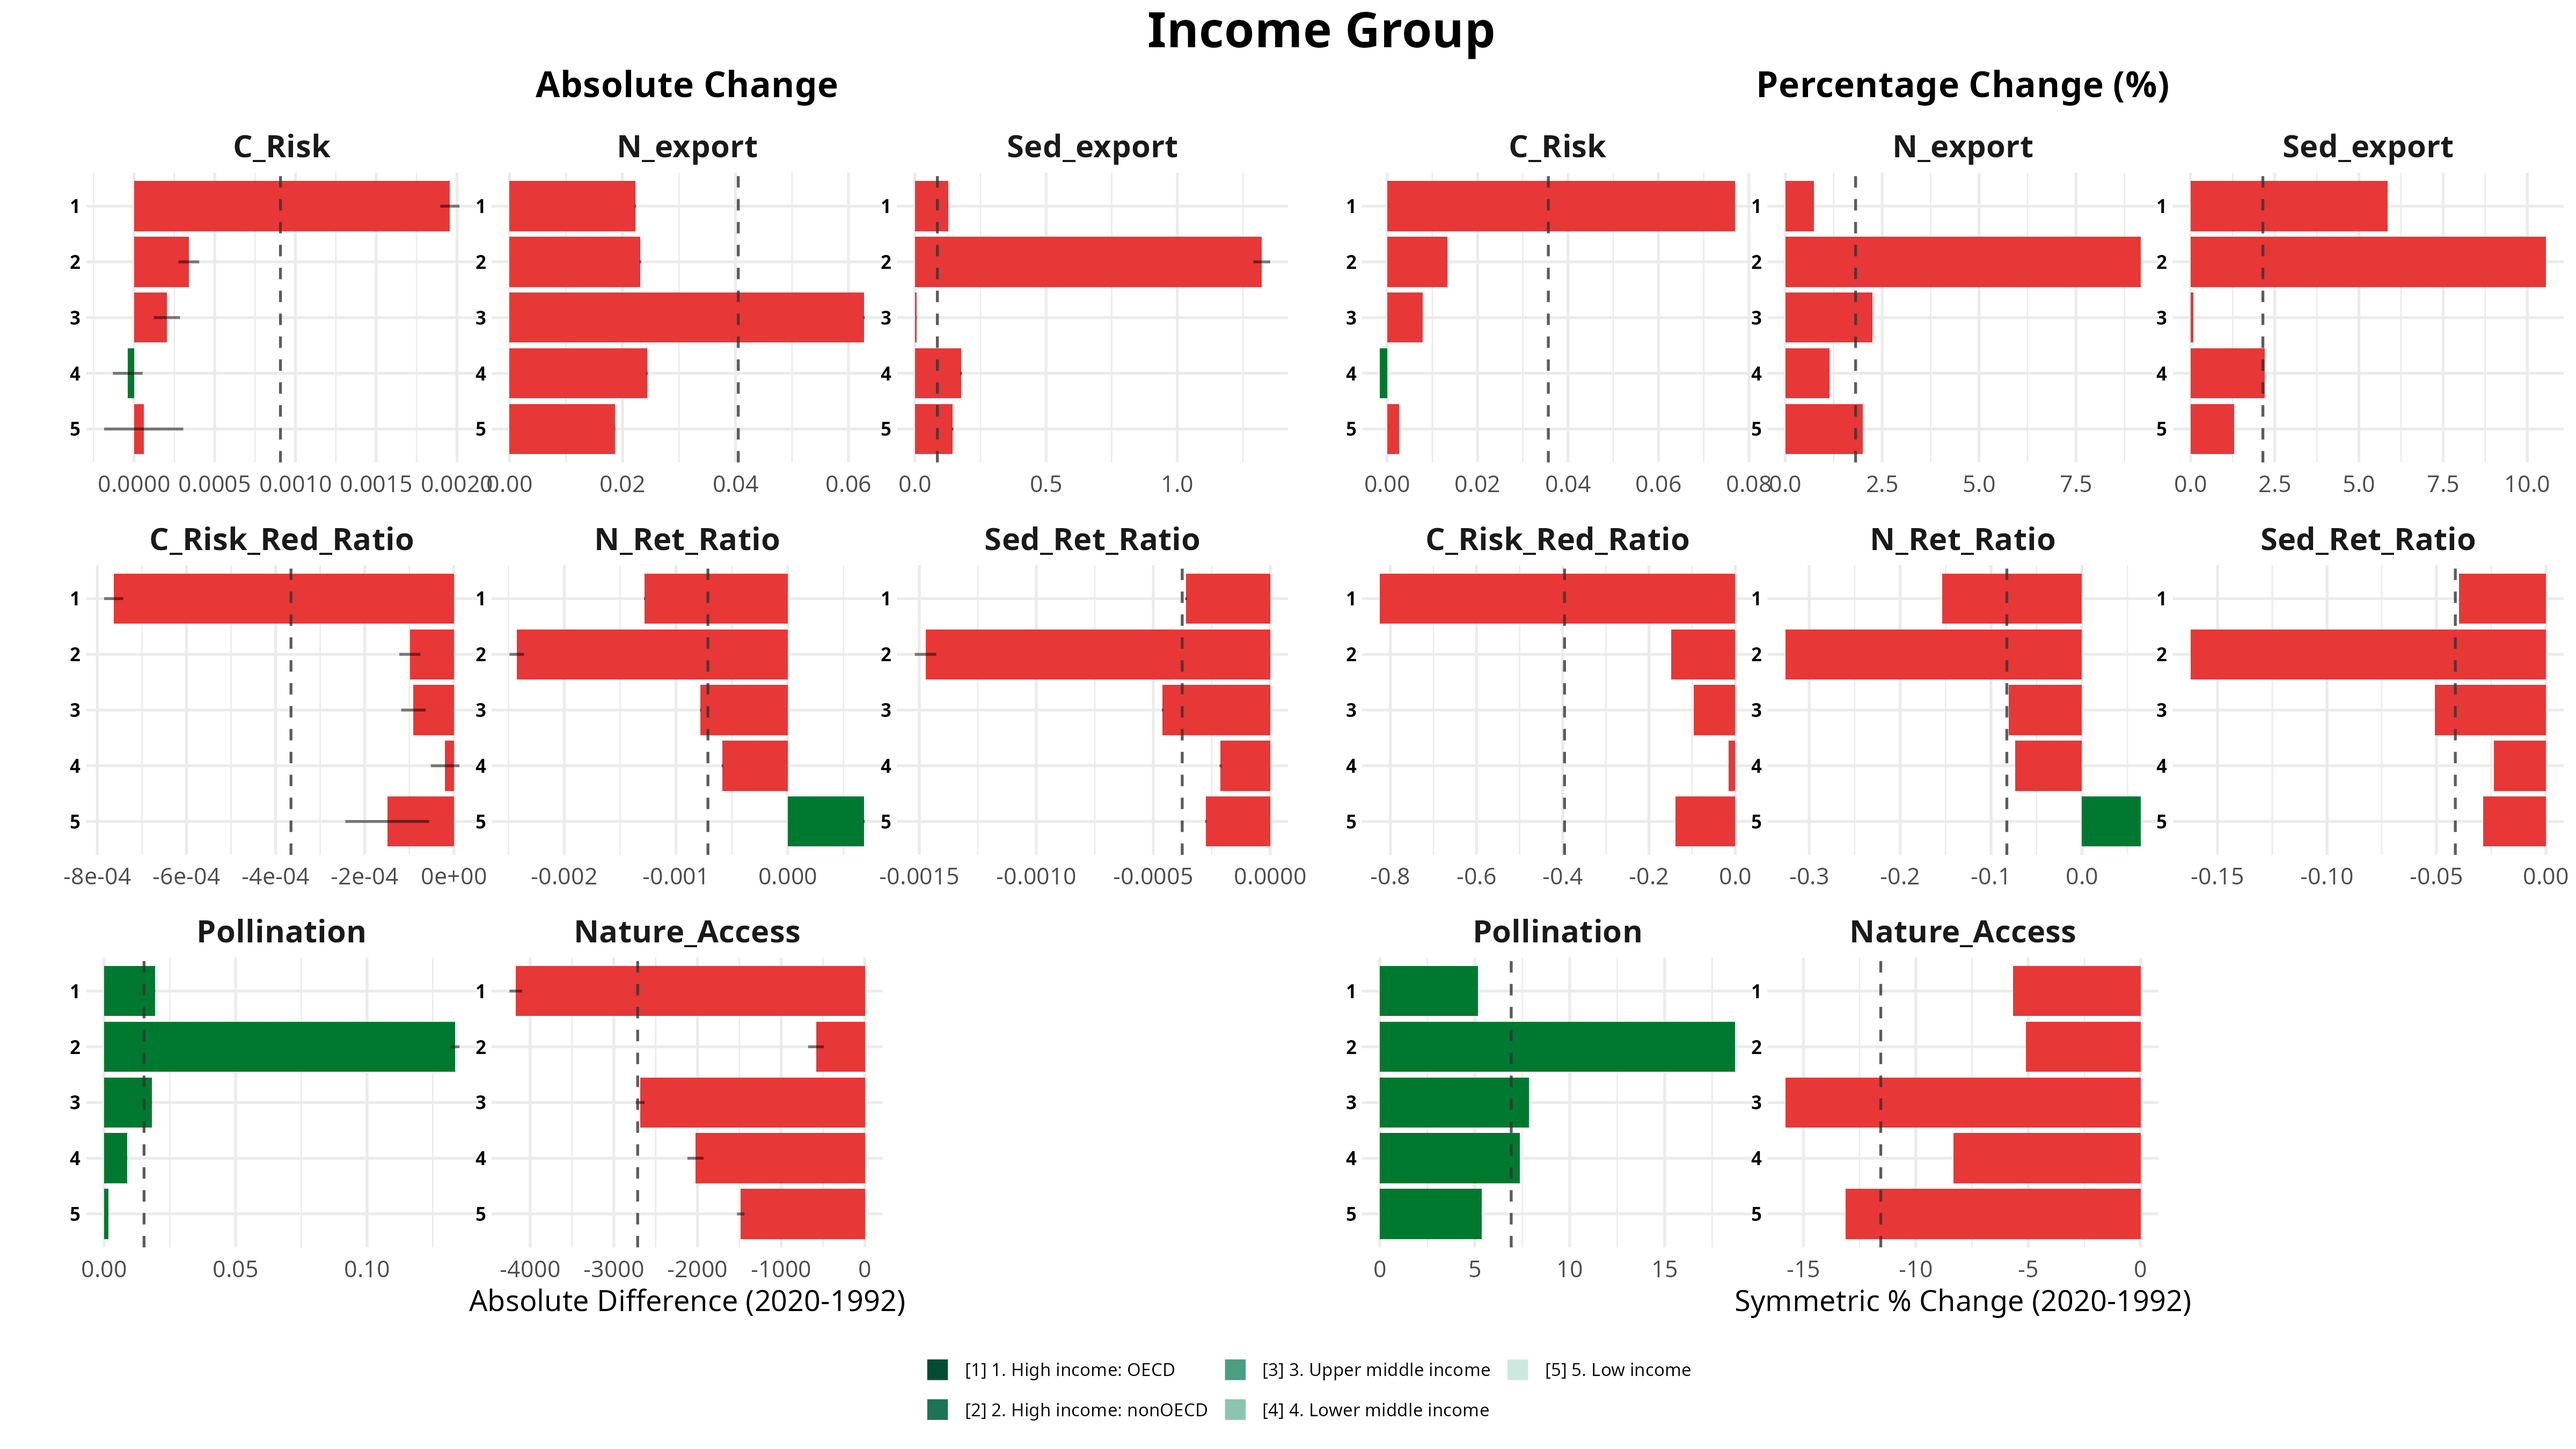
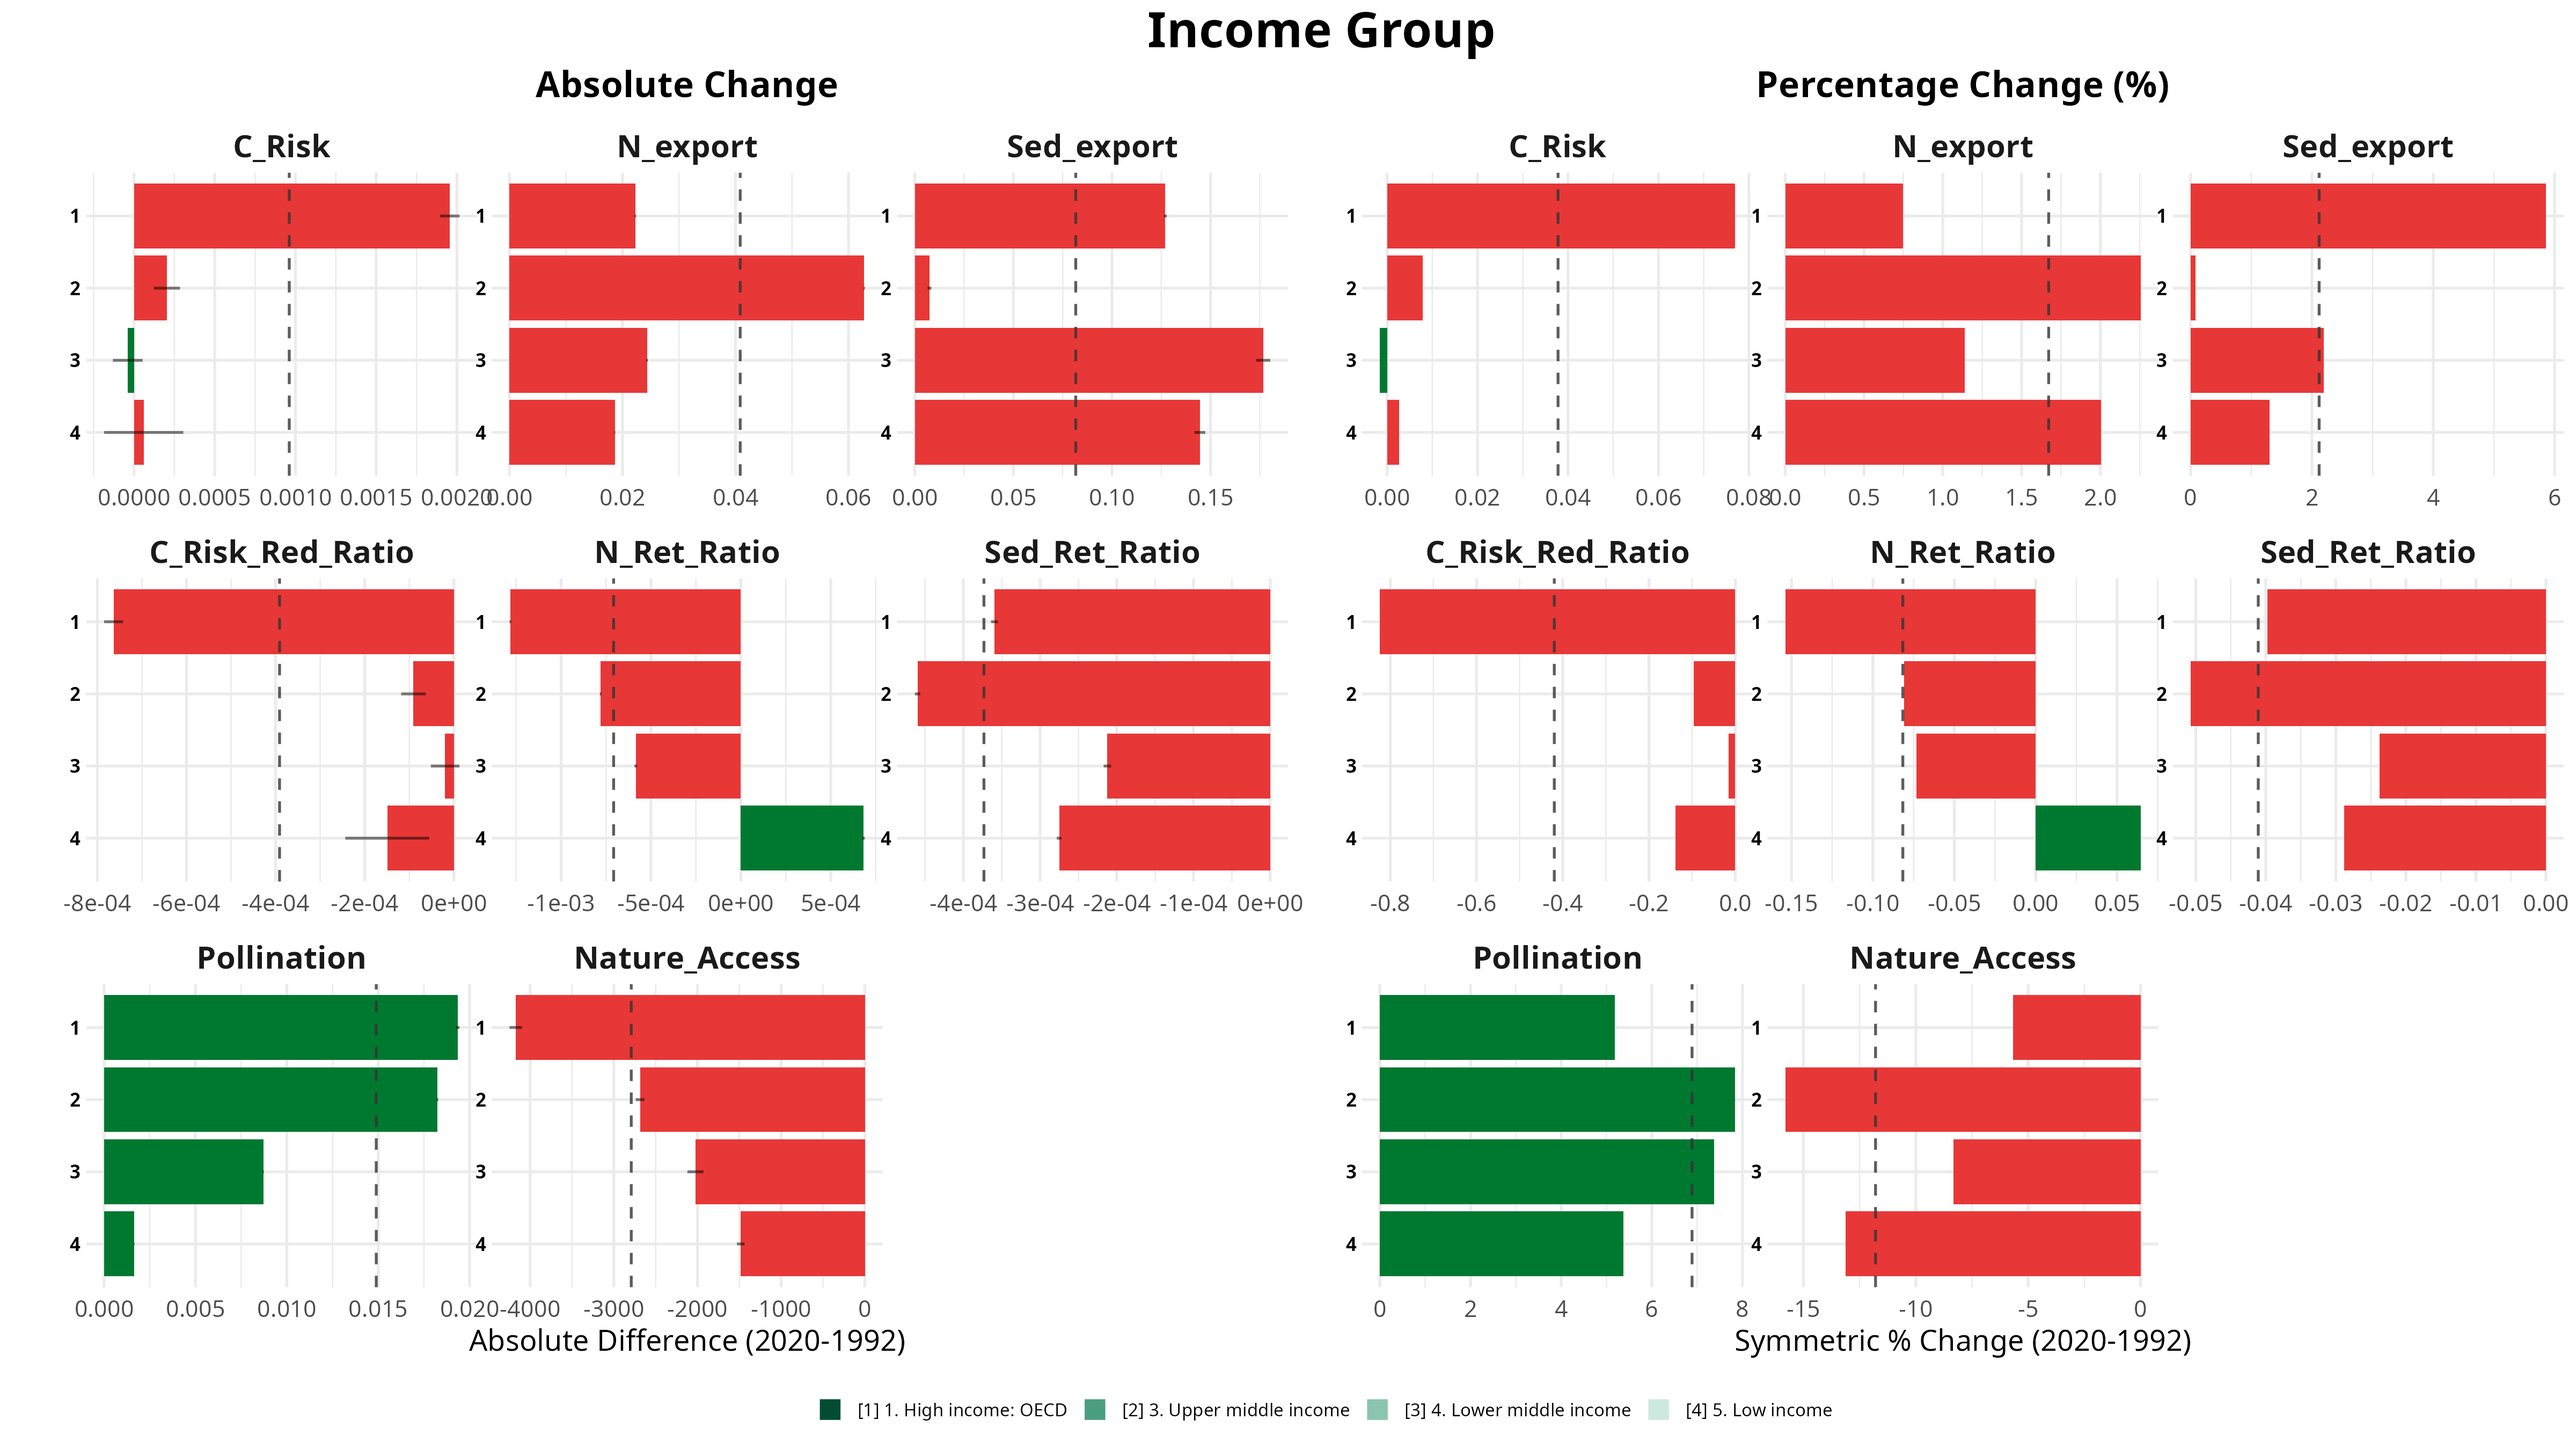
remove high income non-OECD from the plots

diff --git a/runner.py b/runner.py
@@ -1385,12 +1385,12 @@ def run_zonal_stats_job(
     workdir = Path(workdir)
     workdir.mkdir(parents=True, exist_ok=True)
 
+    # 1. SCHEDULE ALL TASKS
+    # Schedule raster analysis tasks
     grouped_stats_list = []
     if base_raster_path_list:
-        raster_rows = []
         for base_raster_path in base_raster_path_list:
             base_raster_path = Path(base_raster_path)
-
             grouped_stats_task = task_graph.add_task(
                 func=fast_zonal_statistics,
                 args=((base_raster_path, 1), agg_vector, agg_field),
@@ -1402,16 +1402,17 @@ def run_zonal_stats_job(
                     "percentile_list": pct_list,
                 },
                 store_result=True,
+                task_name=f"zonal stats for {base_raster_path.name}",
             )
             grouped_stats_list.append(
                 (base_raster_path.stem, agg_field, grouped_stats_task)
             )
 
-    combined_dataframe = None
-
+    # Schedule vector analysis task
+    vector_task = None
+    vector_tmp_csv = None
     if base_vector_path_list:
         vector_tmp_csv = workdir / f"{tag}__vector_stats.csv"
-
         vector_task = task_graph.add_task(
             func=run_vector_stats_job,
             kwargs={
@@ -1430,48 +1431,54 @@ def run_zonal_stats_job(
             task_name=f"vector stats for {tag}",
             target_path_list=[vector_tmp_csv],
         )
-        vector_task.join()
 
+    # 2. WAIT FOR AND PROCESS RESULTS
+    combined_dataframe = None
+
+    # Process vector result first, if it exists
+    if vector_task:
+        vector_task.join()  # Wait for the vector CSV to be written
         vector_dataframe = pd.read_csv(vector_tmp_csv)
         if "base_vector" in vector_dataframe.columns:
             vector_dataframe = vector_dataframe.rename(
                 columns={"base_vector": "base"}
             )
-
         combined_dataframe = vector_dataframe
 
-    raster_dataframes = []
+    # Process raster results, if they exist
+    if grouped_stats_list:
+        raster_dataframes = []
+        for raster_stem, aggregation_field_name, group_task in grouped_stats_list:
+            grouped_stats = group_task.get()  # Wait for the in-memory result
+            raster_rows = []
+            for group_value, statistics in grouped_stats.items():
+                row = {aggregation_field_name: group_value}
+                for operation in core_ops:
+                    row[f"{operation}_{raster_stem}"] = statistics.get(operation)
+                for percentile_key in pct_keys:
+                    row[f"{percentile_key}_{raster_stem}"] = statistics.get(
+                        percentile_key
+                    )
+                raster_rows.append(row)
+            raster_dataframes.append(pd.DataFrame(raster_rows))
 
-    for raster_stem, aggregation_field_name, group_task in grouped_stats_list:
-        grouped_stats = group_task.get()
-
-        raster_rows = []
-        for group_value, statistics in grouped_stats.items():
-            row = {aggregation_field_name: group_value}
-            for operation in core_ops:
-                row[f"{operation}_{raster_stem}"] = statistics.get(operation)
-            for percentile_key in pct_keys:
-                row[f"{percentile_key}_{raster_stem}"] = statistics.get(
-                    percentile_key
+        # Merge all raster dataframes together
+        raster_dataframe = None
+        if raster_dataframes:
+            for raster_frame in raster_dataframes:
+                raster_dataframe = (
+                    raster_frame
+                    if raster_dataframe is None
+                    else raster_dataframe.merge(raster_frame, on=agg_field, how="outer")
                 )
-            raster_rows.append(row)
 
-        raster_dataframes.append(pd.DataFrame(raster_rows))
-
-    raster_dataframe = None
-    for raster_frame in raster_dataframes:
-        raster_dataframe = (
-            raster_frame
-            if raster_dataframe is None
-            else raster_dataframe.merge(raster_frame, on=agg_field, how="outer")
-        )
-
-    if combined_dataframe is None:
-        combined_dataframe = raster_dataframe
-    elif raster_dataframe is not None:
-        combined_dataframe = combined_dataframe.merge(
-            raster_dataframe, on=agg_field, how="outer"
-        )
+        # Merge raster results into the combined dataframe
+        if combined_dataframe is None:
+            combined_dataframe = raster_dataframe
+        elif raster_dataframe is not None:
+            combined_dataframe = combined_dataframe.merge(
+                raster_dataframe, on=agg_field, how="outer"
+            )
 
     if combined_dataframe is None:
         combined_dataframe = pd.DataFrame(columns=[agg_field])
